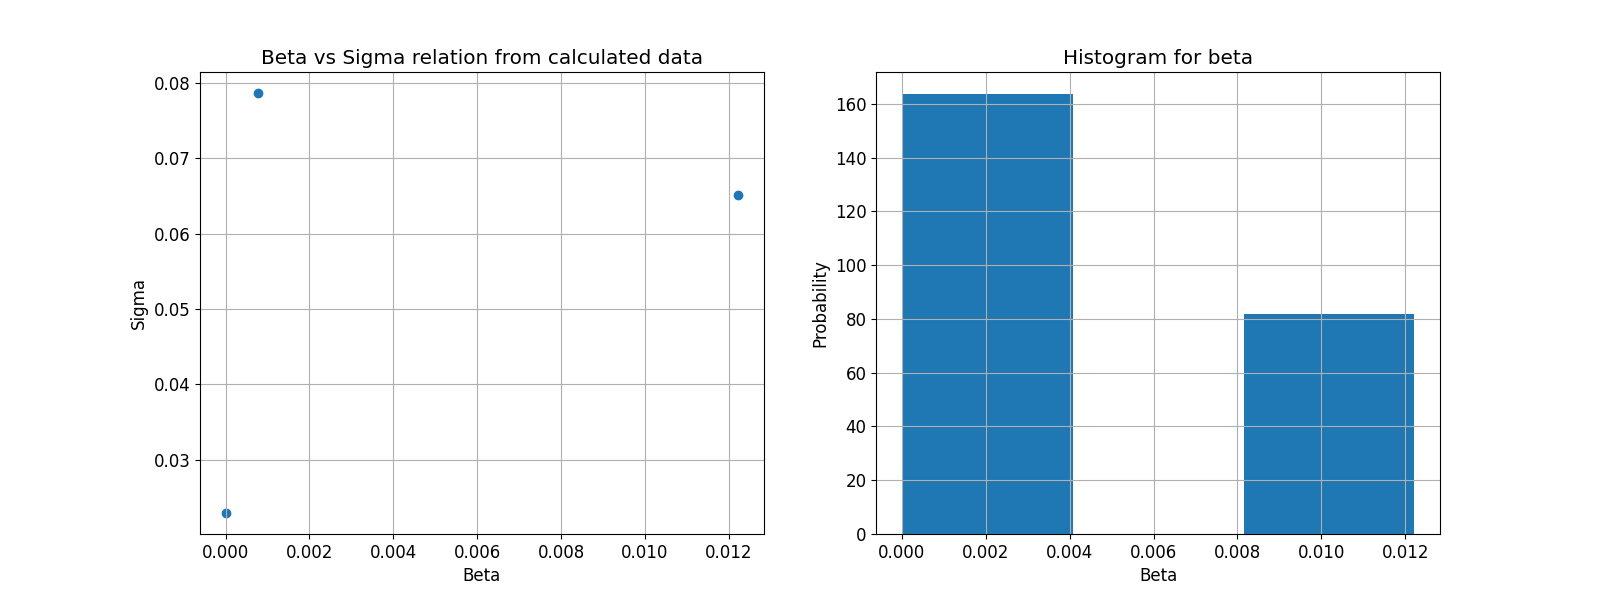
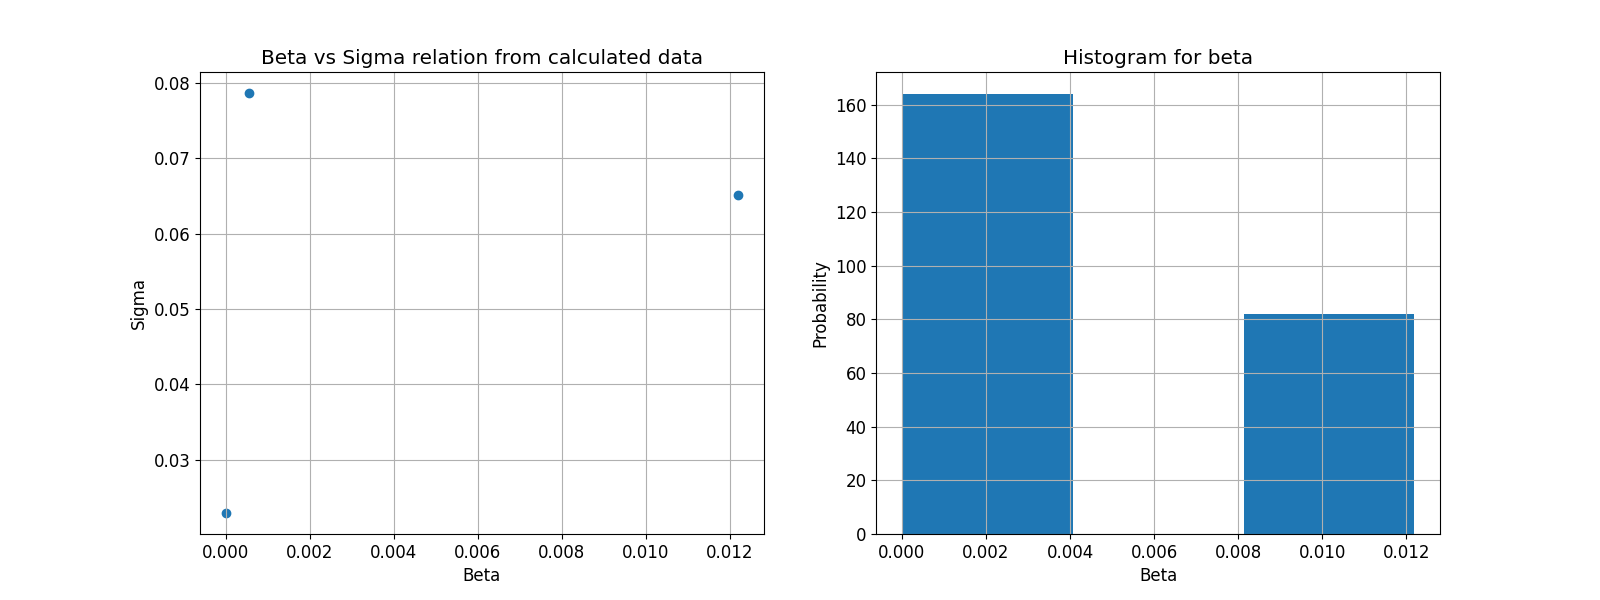
Added more american

diff --git a/option_pricing/optionlib/american_options_trader.py b/option_pricing/optionlib/american_options_trader.py
@@ -3,11 +3,9 @@ import sqlite3
 from datetime import date
 
 import grpc
-from option_pricing.black_scholes_option_pricing import Option
-import numpy as np
+import statistics as stat
 import option_pricing.grpc_option.option_pb2_grpc as stub
 import option_pricing.grpc_option.option_pb2 as message
-import pandas as pd
 import matplotlib
 import statistics
 
@@ -63,9 +61,11 @@ class AmericanOptions(object):
             for index in range(num_of_days, multiplied_by * num_of_days, num_of_days):
                 option_open_prices_part = option_open_prices[index - num_of_days:index]
                 stock_open_prices_part = stock_open_prices[index - num_of_days:index]
+                stock_open_price = stock_open_prices_part[0]
+                option_final_price = option_open_prices_part[-1]
                 out = self.calculate_nonlinear_bs(num_of_days,
-                                                  option_open_prices_part[-1],
-                                                  stock_open_prices_part,
+                                                  option_final_price,
+                                                  stock_open_price,
                                                   volatility, 0.0)
                 calculated_beta = out['calculated_beta']
                 calculated_values = out['calculated_price_3d']
@@ -76,10 +76,16 @@ class AmericanOptions(object):
         except Exception:
             pass
 
-        fig1, (ax1, ax2, ax3) = plt.subplots(3, 1, figsize=(16, 10), facecolor='w')
+        # Calculate STD DEV
+        std_dev_list = []
+        for i in range(0, len(divided_option_prices_for_given_s0)):
+            std_dev_list.append(abs(divided_option_prices_for_given_s0[i] - option_open_prices[i]))
+        std_dev = stat.stdev(std_dev_list)
+
+        fig1, (ax1, ax2, ax3, ax4) = plt.subplots(4, 1, figsize=(16, 10), facecolor='w')
         ax1.grid()
-        ax1.set(xlabel='Time (days)', ylabel='Price (usd)', title='{} Market and computed data, stock volatility: {:.3f}'.
-                format(self.option.upper(), volatility))
+        ax1.set(xlabel='Time (days)', ylabel='Price (usd)', title='{} Market and computed data, stock volatility: {:.3f}, STD DEV: {:.3f}'.
+                format(self.option.upper(), volatility, std_dev))
 
         ax1.plot(option_open_prices[0], marker='o', markersize=6, color="red",
                  label='Market V(t={}): {:.2f}'.format(dates[0], option_open_prices[0]))
@@ -108,20 +114,24 @@ class AmericanOptions(object):
             ax2.plot(dates[i * num_of_days:i * num_of_days + num_of_days], [betas[i] for _ in range(num_of_days)],
                      label='Calculated beta: {:.3f}'.format(betas[i]))
         ax2.xaxis.set_ticks([])
-        ax2.legend(loc='upper left', shadow=False)
-        ax2.legend(frameon=True)
         ax3.grid()
-        ax3.plot(stock_open_prices[0:len(divided_option_prices_for_given_s0)],
-                 label='Stock price', marker='', markersize=6,
-                 color="black",)
+        ax3.set(xlabel='Time (days)', ylabel='Beta',
+                title='Calculated Beta for given time')
+        ax3.plot(betas, label='Calculated beta')
         ax3.xaxis.set_ticks([])
-        ax3.set(ylabel='Price (usd)', title='{} Market data'.
-                format(self.stock.upper()))
-        for i in range(0, 3 * num_of_days, num_of_days):
-            ax3.plot(i, stock_open_prices[i], marker='o', markersize=6,
-                     label='Stock price {:.3f} at {}'.format(stock_open_prices[i], dates[i]))
         ax3.legend(loc='upper left', shadow=False)
         ax3.legend(frameon=True)
+        ax4.grid()
+        ax4.plot(stock_open_prices[0:len(divided_option_prices_for_given_s0)],
+                 label='Stock price', marker='', markersize=6,
+                 color="black",)
+        ax4.xaxis.set_ticks([])
+        ax4.set(ylabel='Price (usd)', title='{} Market data'.
+                format(self.stock.upper()))
+        for i in range(0, (multiplied_by -1)* num_of_days, num_of_days):
+            ax4.plot(i, stock_open_prices[i], marker='o', markersize=6,
+                     label='Stock price {:.3f} at {}'.format(stock_open_prices[i], dates[i]))
+
         fig1.tight_layout()
         plt.savefig("{}/{}_divided.png".format(".", self.option))
 
@@ -144,9 +154,8 @@ class AmericanOptions(object):
         T = self._days_between_dates(dates[0], dates[-1])
         volatility = self._calculate_volatility(stock_open_prices, T)
 
-        # stock_open_prices[-1] = self.K
         option_price_from_last_day = option_open_prices[-1]
-        out = self.calculate_nonlinear_bs(T, option_price_from_last_day, stock_open_prices, volatility, 0.0)
+        out = self.calculate_nonlinear_bs(T, option_price_from_last_day, stock_open_prices[0], volatility, 0.0)
         calculated_beta = out['calculated_beta']
         calculated_values = out['calculated_price_3d']
         price_index = out['price_index']
@@ -192,7 +201,7 @@ class AmericanOptions(object):
         ax1.legend(loc='upper left', shadow=False)
         ax1.legend(frameon=True)
 
-        out = self.calculate_nonlinear_bs(T, option_price_from_last_day, stock_open_prices, volatility, 0.05)
+        out = self.calculate_nonlinear_bs(T, option_price_from_last_day, stock_open_prices[0], volatility, 0.05)
         calculated_beta = out['calculated_beta']
         calculated_values = out['calculated_price_3d']
         price_index = out['price_index']
@@ -217,7 +226,7 @@ class AmericanOptions(object):
         ax2.legend(loc='upper left', shadow=False)
         ax2.legend(frameon=True)
 
-        out = self.calculate_nonlinear_bs(T, option_price_from_last_day, stock_open_prices, volatility, 0.005)
+        out = self.calculate_nonlinear_bs(T, option_price_from_last_day, stock_open_prices[0], volatility, 0.005)
         calculated_beta = out['calculated_beta']
         calculated_values = out['calculated_price_3d']
         price_index = out['price_index']
@@ -242,7 +251,7 @@ class AmericanOptions(object):
         ax3.legend(loc='upper left', shadow=False)
         ax3.legend(frameon=True)
 
-        out = self.calculate_nonlinear_bs(T, option_price_from_last_day, stock_open_prices, volatility, 0.0005)
+        out = self.calculate_nonlinear_bs(T, option_price_from_last_day, stock_open_prices[0], volatility, 0.0005)
         calculated_beta = out['calculated_beta']
         calculated_values = out['calculated_price_3d']
         price_index = out['price_index']
@@ -282,13 +291,13 @@ class AmericanOptions(object):
 
         return data.fetchall()
 
-    def calculate_nonlinear_bs(self, T, option_price_from_boundary_conditions, stock_open_prices, volatility, beta):
+    def calculate_nonlinear_bs(self, T, option_price_from_boundary_conditions, stock_open_price, volatility, beta):
         """
         Make grpc connection and calculate
         :param T: expiry time in days
         :param beta: 0 means that it we will calibrate, otherwise we will calculate for the given number
         :param option_price_from_boundary_conditions:
-        :param stock_open_prices:
+        :param stock_open_price:
         :param volatility:
         :return:
         """
@@ -297,11 +306,11 @@ class AmericanOptions(object):
         request.maxPrice = 200
         request.volatility = volatility
         request.r = self.r
-        request.tMax = (1.0 / DAYS_IN_YEAR) * (T + 10)
+        request.tMax = (1.0 / DAYS_IN_YEAR) * (T + 5)
         request.strikePrice = self.K
         request.calculationType = 'NonLinear'
         request.beta = beta
-        request.startPrice = stock_open_prices[0]
+        request.startPrice = stock_open_price
         request.expectedPrice = option_price_from_boundary_conditions
         request.maturityTimeDays = T
         request.optionStyle = european
@@ -373,5 +382,5 @@ if __name__ == '__main__':
     # a = AmericanOptions("APPL", "AAPL220617C00143000", 0.03, "/Users/marcinwroblewski/GolandProjects/optionpricing/american.db")
     a = AmericanOptions("APPL", "AAPL220617C00155000", 0.03,
                         "/Users/marcinwroblewski/GolandProjects/optionpricing/american.db")
-    a.calculate_option_data_divided(4)
+    a.calculate_option_data_divided(11)
     # a.calculate_option_data()

diff --git a/compute/computation.go b/compute/computation.go
@@ -1,13 +1,17 @@
 package compute
 
 import (
+	"errors"
 	"fmt"
 	"math"
 	stubs "optionpricing/option"
 )
 
 const daysInYear = 252.0
-const numberOfSteps = 10009
+const numberOfSteps = 10000
+
+var errIsNan = errors.New("price is NAN")
+var errInInf = errors.New("price is INF")
 
 func computeLinearBlackScholes(maxPrice, volatility, r, tMax, strikePrice, beta, s0 float64, t int32, optionStyle string) ([][]float64, float64, int32, float64, int32, error) {
 	isFound := false
@@ -106,14 +110,14 @@ func computeLinearBlackScholes(maxPrice, volatility, r, tMax, strikePrice, beta,
 	return Uxt, calculatedPrice, calculatedDays, calculatedAssetPrice, priceIndexForS0, nil
 }
 
-func computeNonLinearBlackScholes(maxPrice, volatility, r, tMax, strikePrice, beta, s0 float64, t int32, optionStyle string) ([][]float64, float64, int32, float64, int32, error) {
+func computeNonLinearBlackScholes(ds, maxPrice, volatility, r, tMax, strikePrice, beta, s0 float64, t int32, optionStyle string) ([][]float64, float64, int32, float64, int32, error) {
 	var calculatedPrice float64
 	var calculatedDays, priceIndexForS0 int32
 	var calculatedAssetPrice float64
 	dailyVolatility := volatility / (math.Sqrt(float64(t)))
 
 	// Spatial differential
-	ds := maxPrice / spatialSteps
+
 	ds2 := math.Pow(ds, 2)
 	volatility2 := math.Pow(volatility, 2)
 
@@ -153,6 +157,7 @@ func computeNonLinearBlackScholes(maxPrice, volatility, r, tMax, strikePrice, be
 		// Second loops stands for calculating Uxt at given t value and for every price in priceSlice
 		for sIndex := 1; sIndex < spatialSize-1; sIndex++ {
 			s := priceSlice[sIndex]
+
 			R1 := -r*Uxt[sIndex][tIndex-1] - beta*math.Pow(Uxt[sIndex][tIndex-1], 3)
 			R2 := r * s * (Uxt[sIndex+1][tIndex-1] - Uxt[sIndex-1][tIndex-1]) / (2 * ds)
 			R3 := 0.5 * volatility2 * (math.Pow(s, 2)) * (Uxt[sIndex-1][tIndex-1] - 2*Uxt[sIndex][tIndex-1] + Uxt[sIndex+1][tIndex-1]) / ds2
@@ -167,6 +172,15 @@ func computeNonLinearBlackScholes(maxPrice, volatility, r, tMax, strikePrice, be
 
 			// Derived function in time domain
 			Uxt[sIndex][tIndex] = Uxt[sIndex][tIndex-1] + (1.0/6.0)*(k1+2.0*k2+2.0*k3+k4)
+			if math.IsNaN(Uxt[sIndex][tIndex]) {
+				fmt.Println("Got Nan")
+				return Uxt, 0, 0, 0, 0, errIsNan
+			}
+
+			if math.IsInf(Uxt[sIndex][tIndex], 0) {
+				fmt.Println("Got Inf")
+				return Uxt, 0, 0, 0, 0, errInInf
+			}
 			if optionStyle == American {
 				bsPrice := PriceBlackScholes(true, s, strikePrice, 1, dailyVolatility, r, 0.0)
 				if bsPrice > Uxt[sIndex][tIndex] {
@@ -183,11 +197,7 @@ func computeNonLinearBlackScholes(maxPrice, volatility, r, tMax, strikePrice, be
 				calculatedAssetPrice = s
 				priceIndexForS0 = int32(sIndex)
 
-				if math.IsNaN(calculatedPrice) {
-					fmt.Printf("CalculatedPris is NAN\n")
-					return Uxt, 0, 0, 0, 0, fmt.Errorf("calculatedPrice is NAN")
-				}
-
+				fmt.Println("Price was found for given beta")
 				return Uxt, calculatedPrice, calculatedDays, calculatedAssetPrice, priceIndexForS0, nil
 			}
 		}
@@ -197,7 +207,7 @@ func computeNonLinearBlackScholes(maxPrice, volatility, r, tMax, strikePrice, be
 		Uxt[spatialSize-1][tIndex] = priceSlice[spatialSize-1] - strikePrice
 
 	}
-
+	fmt.Println("Unable to find price for given beta")
 	return Uxt, 0, 0, 0, 0, fmt.Errorf("unable to find option parameters")
 
 }
@@ -210,25 +220,44 @@ func calibrateBetaForNonLinearBs(leftBeta, rightBeta float64, incommingRequest *
 	i := 0
 
 	// Calculate for beta = 0 aka linear model
-	Uxt, calculatedPrice, calculatedDays, calculatedAssetPrice, priceIndexForS0, err = computeNonLinearBlackScholes(incommingRequest.MaxPrice,
-		incommingRequest.Volatility, incommingRequest.R, incommingRequest.TMax, incommingRequest.StrikePrice, 0,
-		incommingRequest.StartPrice, incommingRequest.MaturityTimeDays, incommingRequest.OptionStyle)
-	if err != nil {
-		return Uxt, calculatedPrice, calculatedDays, calculatedAssetPrice, 0, 0, fmt.Errorf("computation error: %v", err)
-	}
-	if int32(calculatedPrice) == int32(incommingRequest.ExpectedPrice) {
-		return Uxt, calculatedPrice, calculatedDays, calculatedAssetPrice, 0, priceIndexForS0, nil
-	}
+	//Uxt, calculatedPrice, calculatedDays, calculatedAssetPrice, priceIndexForS0, err = computeNonLinearBlackScholes(incommingRequest.MaxPrice,
+	//	incommingRequest.Volatility, incommingRequest.R, incommingRequest.TMax, incommingRequest.StrikePrice, 0,
+	//	incommingRequest.StartPrice, incommingRequest.MaturityTimeDays, incommingRequest.OptionStyle)
+	//if err != nil {
+	//	return Uxt, calculatedPrice, calculatedDays, calculatedAssetPrice, 0, 0, fmt.Errorf("computation error: %v", err)
+	//}
+	//if int32(calculatedPrice) == int32(incommingRequest.ExpectedPrice) {
+	//	return Uxt, calculatedPrice, calculatedDays, calculatedAssetPrice, 0, priceIndexForS0, nil
+	//}
 
 	// Calculate for beta != 0
+
 	for leftBeta < rightBeta {
+		ds := incommingRequest.MaxPrice / spatialSteps
 		middleBeta = (leftBeta + rightBeta) / 2
 		incommingRequest.Beta = middleBeta
-		Uxt, calculatedPrice, calculatedDays, calculatedAssetPrice, priceIndexForS0, err = computeNonLinearBlackScholes(incommingRequest.MaxPrice,
-			incommingRequest.Volatility, incommingRequest.R, incommingRequest.TMax, incommingRequest.StrikePrice, incommingRequest.Beta,
-			incommingRequest.StartPrice, incommingRequest.MaturityTimeDays, incommingRequest.OptionStyle)
-		if err != nil {
-			return Uxt, calculatedPrice, calculatedDays, calculatedAssetPrice, middleBeta, 0, fmt.Errorf("computation error: %v", err)
+		for {
+			Uxt, calculatedPrice, calculatedDays, calculatedAssetPrice, priceIndexForS0, err = computeNonLinearBlackScholes(ds, incommingRequest.MaxPrice,
+				incommingRequest.Volatility, incommingRequest.R, incommingRequest.TMax, incommingRequest.StrikePrice, incommingRequest.Beta,
+				incommingRequest.StartPrice, incommingRequest.MaturityTimeDays, incommingRequest.OptionStyle)
+			if err == errIsNan {
+				ds /= 2
+				fmt.Printf("Decreasing ds: %v\n", ds)
+				continue
+			}
+			if err == errInInf {
+				ds *= 2
+				fmt.Printf("Increasing ds: %v\n", ds)
+				continue
+			}
+			if err == nil {
+				fmt.Println("Successfully calculated price")
+				break
+			}
+			if err != nil {
+				fmt.Println("Unable to find option price")
+				break
+			}
 		}
 		if int32(calculatedPrice) == int32(incommingRequest.ExpectedPrice) {
 			break

diff --git a/compute/server.go b/compute/server.go
@@ -38,7 +38,8 @@ func (o *optionPricingServer) ComputePrice(ctx context.Context, input *stubs.Com
 			U = FromMatrixToStruct(Uxt, calculatedPrice, calculatedDays, calculatedAssetPrice, beta, priceIndexForS0)
 			// Otherwise we want just to calculate option price using that particular beta
 		} else {
-			Uxt, calculatedPrice, calculatedDays, calculatedAssetPrice, priceIndexForS0, err = computeNonLinearBlackScholes(input.MaxPrice,
+			ds := input.MaxPrice / spatialSteps
+			Uxt, calculatedPrice, calculatedDays, calculatedAssetPrice, priceIndexForS0, err = computeNonLinearBlackScholes(ds, input.MaxPrice,
 				input.Volatility, input.R, input.TMax, input.StrikePrice, input.Beta,
 				input.StartPrice, input.MaturityTimeDays, input.OptionStyle)
 			U = FromMatrixToStruct(Uxt, calculatedPrice, calculatedDays, calculatedAssetPrice, input.Beta, priceIndexForS0)

diff --git a/option_pricing/option_data/European options for different r/European_for_r_0.02/summary_r_0.02.tex b/option_pricing/option_data/European options for different r/European_for_r_0.02/summary_r_0.02.tex
@@ -6,9 +6,9 @@ Option & BS Analytical & S-K & BS Nonlinear & Beta & Volatility & r & T \\
 \begin{tabular}{c c c c c c c c}
 \hline\hline
 
-OW20E221725 & 39.965 & 55.360 & 55.704 & 0.00046875 & 0.079 & 0.010 & 13 \\
-OW20G221625 & 76.975 & 0.000 & 0.626 & 0.01218828 & 0.065 & 0.010 & 10 \\
-OW20B222450 & 0.000 & 0.000 & 0.000 & 0.00000000 & 0.023 & 0.010 & 73 \\
+OW20E221725 & 40.540 & 55.360 & 55.439 & 0.00054688 & 0.079 & 0.020 & 13 \\
+OW20G221625 & 77.420 & 0.000 & 0.000 & 0.01219378 & 0.065 & 0.020 & 10 \\
+OW20B222450 & 0.000 & 0.000 & 0.000 & 0.00000000 & 0.023 & 0.020 & 73 \\
 
 \hline
 \end{tabular}

diff --git a/tests/client.go b/tests/client.go
@@ -26,12 +26,12 @@ func main() {
 		Volatility:       0.2,
 		R:                0.01,
 		TMax:             0.9,
-		StrikePrice:      138,
+		StrikePrice:      155,
 		CalculationType:  compute.Nonlinear,
-		Beta:             0.0,
-		StartPrice:       149,
-		MaturityTimeDays: 18,
-		ExpectedPrice:    8.1,
+		Beta:             0.1,
+		StartPrice:       167,
+		MaturityTimeDays: 15,
+		ExpectedPrice:    0.1,
 		OptionStyle:      compute.European,
 	}
 

diff --git a/compute/utils.go b/compute/utils.go
@@ -7,9 +7,9 @@ const (
 	Nonlinear    = "NonLinear"
 	European     = "European"
 	American     = "American"
-	spatialSteps = 100
-	leftBeta     = 0.0
-	rightBeta    = 0.02
+	spatialSteps = 200
+	leftBeta     = -0.5
+	rightBeta    = 0.5
 )
 
 func FromStructToMatrix(uxtOut *stubs.UxtSlice) [][]float64 {
